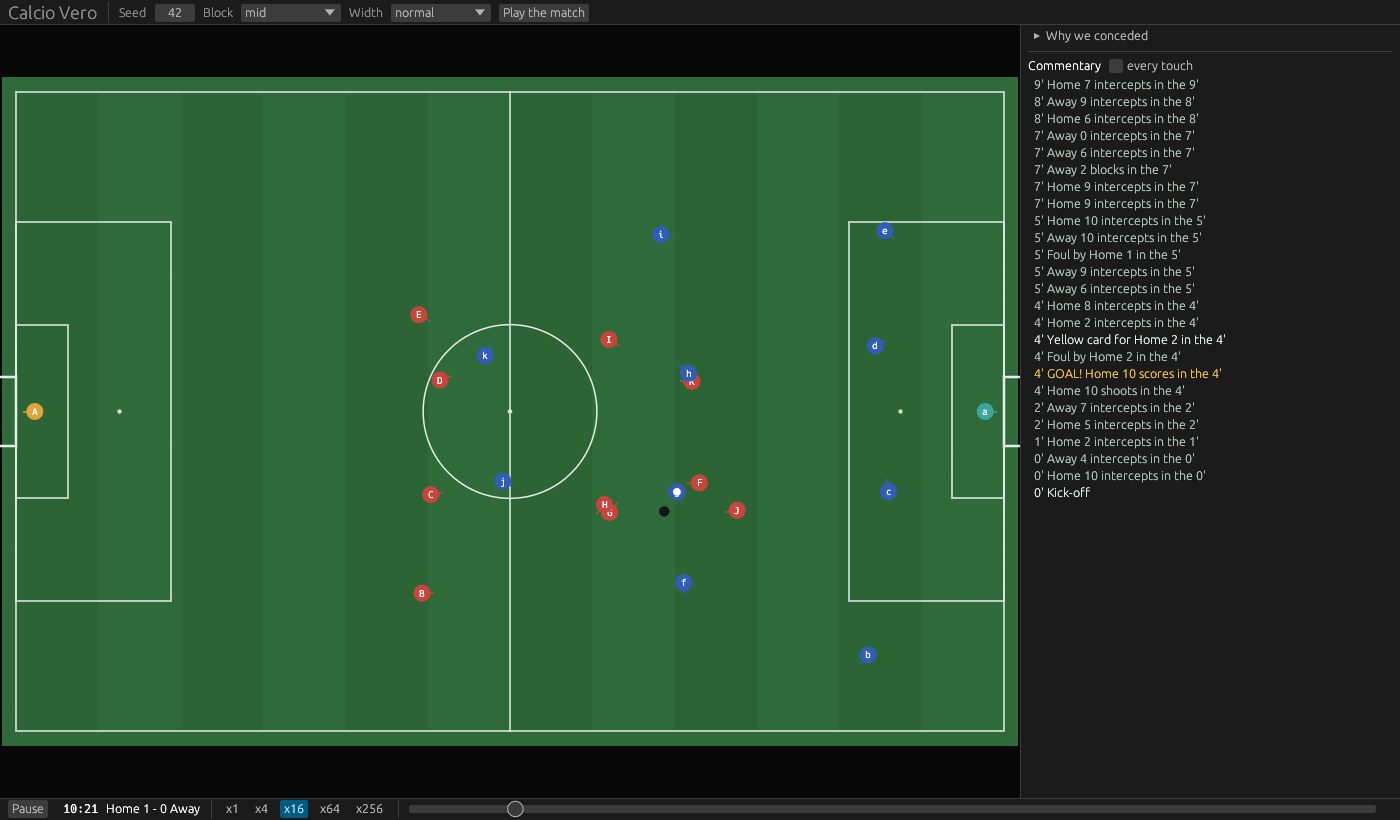
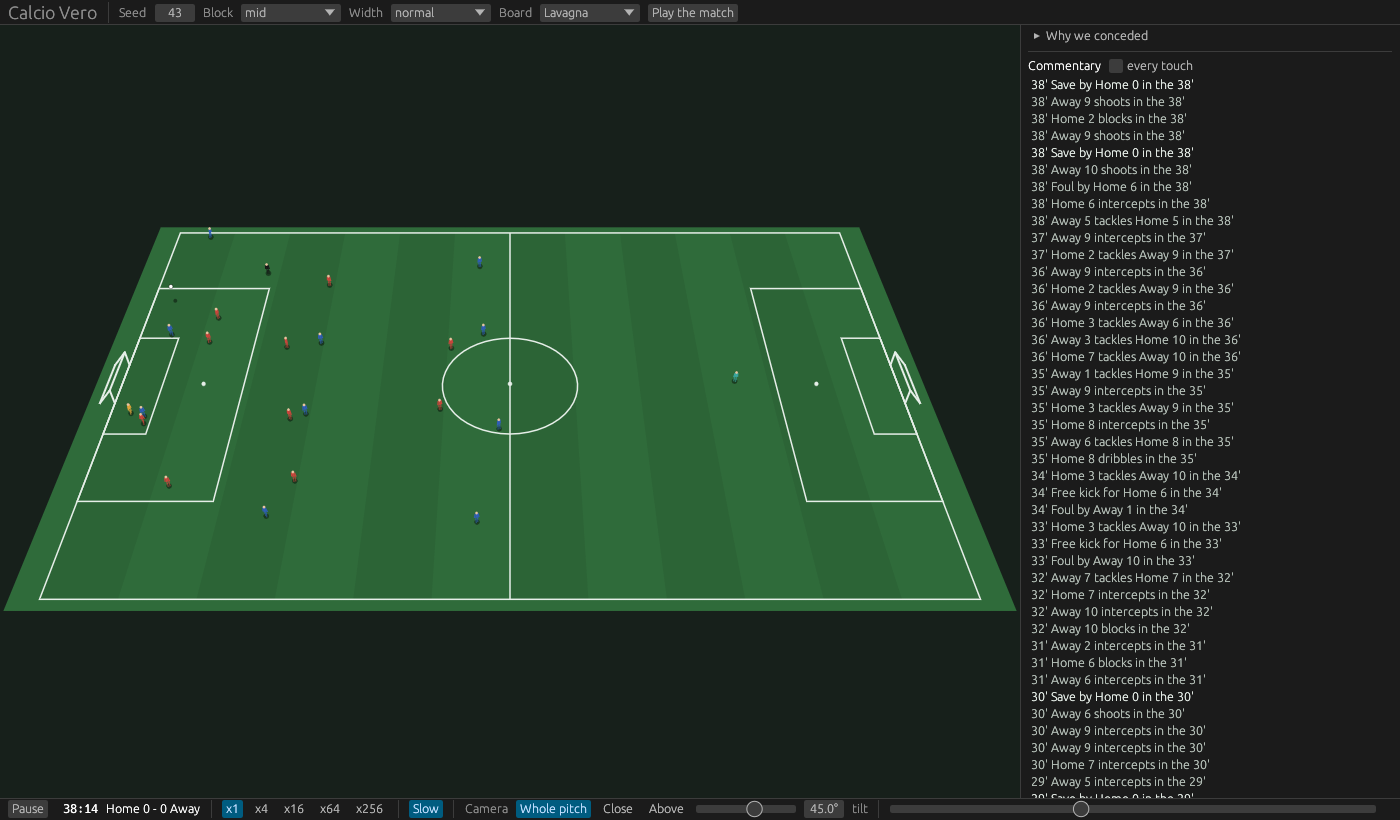
README: the 2.5D view on top, an animated WebP at 60 frames a second
Seed 43, engine 137, 38': a cross and a header with the close camera,
drawn with the interpolation layer by the GUI's recording mode and made
into a WebP by ffmpeg (12 s, 800 px, 3 MB), in place of demo-match.gif.
The window's screenshot is the 2.5D board; the view is in the status
tables and in "Try the engine today".

Claude-Session: https://claude.ai/code/session_01UVVpdHZaaQ23LyNEhHya3y

diff --git a/README.md b/README.md
@@ -22,11 +22,11 @@
 
 ---
 
-**Watch a match in 2D now** (Rust 1.85+ stable; on Windows, Git Bash or WSL):
+**Watch a match now** (Rust 1.85+ stable; on Windows, Git Bash or WSL):
 
     git clone https://github.com/liraan/calciovero.git
     cd calciovero
-    cargo run --release -p ds-gui                              # the window: 2D pitch, commentary, why you conceded
+    cargo run --release -p ds-gui                              # the window: the 2.5D board, commentary, why you conceded
     cargo run --release --bin ds-demo -- --seed 42 --tui       # the same match on a text pitch in the terminal
 
 More options in [Try the engine today](#try-the-engine-today).
@@ -45,9 +45,9 @@ More options in [Try the engine today](#try-the-engine-today).
 
 <div align="center">
 
-<img src="assets/demo-match.gif" alt="A 2D pitch: twenty-two players and the ball; an away midfielder wins a cleared ball and scores from 31 metres" width="800">
+<img src="assets/demo-2.5d.webp" alt="The 2.5D view: the close camera follows a cross from the right into the box and a header at goal, the figures running with their stride" width="800">
 
-*Seed 42, engine version 102, 61'54" to 62'10": the home side clears, the away side wins it back and `g` scores from 31 metres, with no pass in between. The positions are the engine's own tick record (where the twenty-two and the ball are, ten times a second), drawn by a script in the style of the coming interface at 30 frames a second: between two ticks the drawing moves everyone in a straight line, a smoothing for the eye, not the engine. Home players are `A`-`K`, away `a`-`k`, the goalkeepers in their own colour, the ring is the man on the ball. The GUI as it is today ([ADR-055](doctrine/adr/055-the-gui-is-egui-behind-the-view-model.md)) is in [`assets/demo-gui.gif`](assets/demo-gui.gif) (recorded at engine version 95); the terminal view in [`assets/demo-2d.gif`](assets/demo-2d.gif).*
+*Seed 43, engine version 137, 38'02" to 38'14": a cross from the right and a header at goal, with the close camera of the 2.5D view at 50° and the board's Lavagna theme. Everything is the engine's own tick record (where the twenty-two and the ball are, ten times a second), drawn by the GUI at 60 frames a second: between two ticks the players move on curves with their speed, the ball flies on the engine's own gravity, and every curve ends exactly on the next tick; the figures' gestures (the kick, the jump) come only from the facts of the match. The drawing never touches the simulation ([`tools/ds-gui/DESIGN.md`](tools/ds-gui/DESIGN.md)). The terminal view is in [`assets/demo-2d.gif`](assets/demo-2d.gif).*
 
 </div>
 
@@ -98,7 +98,7 @@ matches** you **observe** what your players actually did, through
 ratings and data built from events and the reports of your staff, never
 from hidden numbers; you **understand** why; you **decide** the eleven,
 the tactic, the training, the signings. **Inside the match** you
-**watch** it, in a 2D view or as radio commentary; you **understand**
+**watch** it, on the tilted board of the 2.5D view or as radio commentary; you **understand**
 what is happening, down to the moment and the reason; you **adjust**
 from the touchline, at half-time, with the substitutions. In both,
 understanding comes before acting: you change because you understood,
@@ -124,14 +124,14 @@ The game is built in four concentric levels; each one widens the previous and de
 | **L1 · The season** | three divisions and the cup in the real Italian format, every match played by the engine | ⬜ planned, starts when L0 is closed | [`L1`](context/plans/L1.md) |
 | **L2 · The career** | contracts, market, scouts, academy, growth, finances, the dressing room, the coach's life | ⬜ planned | [ADR-060](doctrine/adr/060-the-season-is-true-the-career-builds.md) |
 | **L3 · Make it yours** | editor for every value, packs, a local importer for your own data, external plugins in WebAssembly | ⬜ planned | [decisions](context/plans/DECISIONS-2026-11-15.md) |
-| **Interface** | desktop window today (2D replay, commentary, why you conceded); the full design is decided | 🟡 | [`DESIGN`](tools/ds-gui/DESIGN.md) |
+| **Interface** | desktop window today: the 2.5D view (three cameras, articulated figures, gestures from the facts, three themes), commentary, why you conceded; the full design is decided | 🟡 | [`DESIGN`](tools/ds-gui/DESIGN.md) |
 | **Android** | the same game, the same plugins, light asset packs | ⬜ after the desktop | [ADR-061](doctrine/adr/061-android-is-the-same-game.md) |
 
 ### Releases
 
 | Version | When | What you get |
 |---|---|---|
-| **0.1 · Season** | when L1 is done | a full season, the board, the calendar, the squad, the week, the 2D match; for a few testers |
+| **0.1 · Season** | when L1 is done | a full season, the board, the calendar, the squad, the week, the 2.5D match; for a few testers |
 | **0.2 · Market** | after the first half of L2 | contracts, finances, transfers, scouts |
 | **0.3 · Career** | after L2 | growth, academy, dressing room, the board; open to everyone |
 | **1.0** | after L3 | the editor, the packs, the polished interface, on desktop |
@@ -176,13 +176,13 @@ Requires **Rust 1.85+ (stable)**. On Windows, use Git Bash or WSL.
     cd calciovero
     cargo run --release --bin ds-demo -- --seed 42 --tui
 
-Or open the window (egui, [ADR-055](doctrine/adr/055-the-gui-is-egui-behind-the-view-model.md)): choose seed, block and width, watch the match on a 2D pitch with the commentary, click an event to go back to it, and read why you conceded.
+Or open the window (egui, [ADR-055](doctrine/adr/055-the-gui-is-egui-behind-the-view-model.md)): choose seed, block and width, watch the match on the 2.5D board (the whole pitch, the close camera that follows the ball, or from above; the tilt, the slow motion, three themes) with the commentary, click an event to go back to it, and read why you conceded. `--help` lists the options (`--seed`, `--camera`, `--tilt`, `--theme`, `--slow`).
 
     cargo run --release -p ds-gui
 
 ![The GUI](tools/ds-gui/screenshot.png)
 
-The command above is the 2D debug view in the terminal: the twenty-two (`A`-`K` home, `a`-`k` away)
+The first command above is the 2D debug view in the terminal: the twenty-two (`A`-`K` home, `a`-`k` away)
 and the ball on a text pitch, with the events as they happen. It works
 in Git Bash too. Add `--speed 60` to go faster, `--step` to advance with
 Enter, `--frame 30` to print the pitch at the 30th minute. It is a debug
